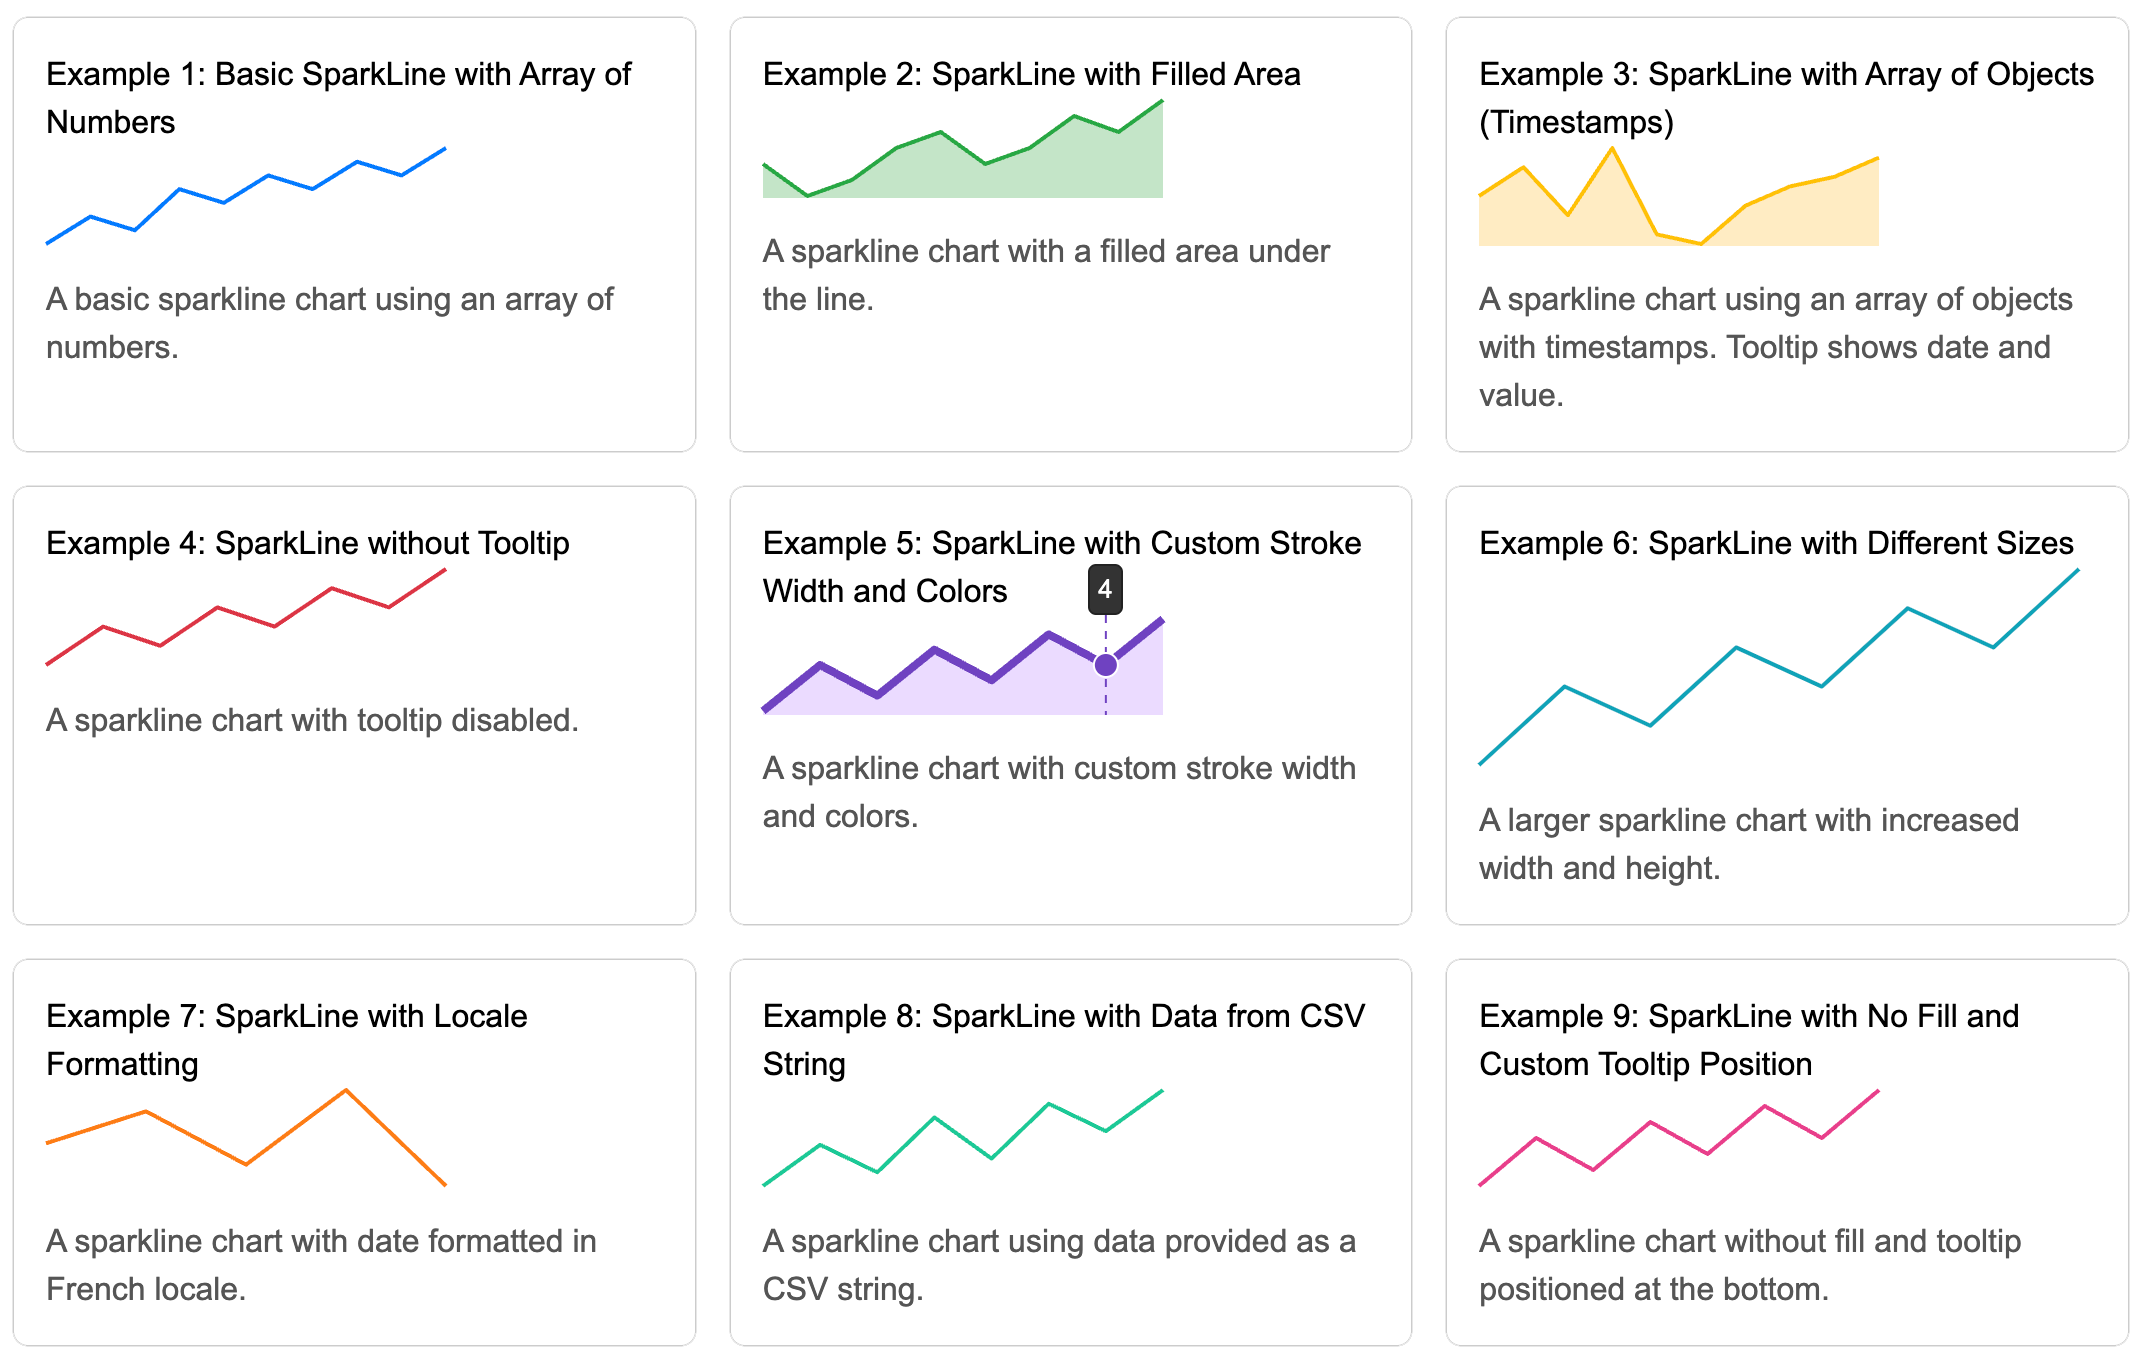
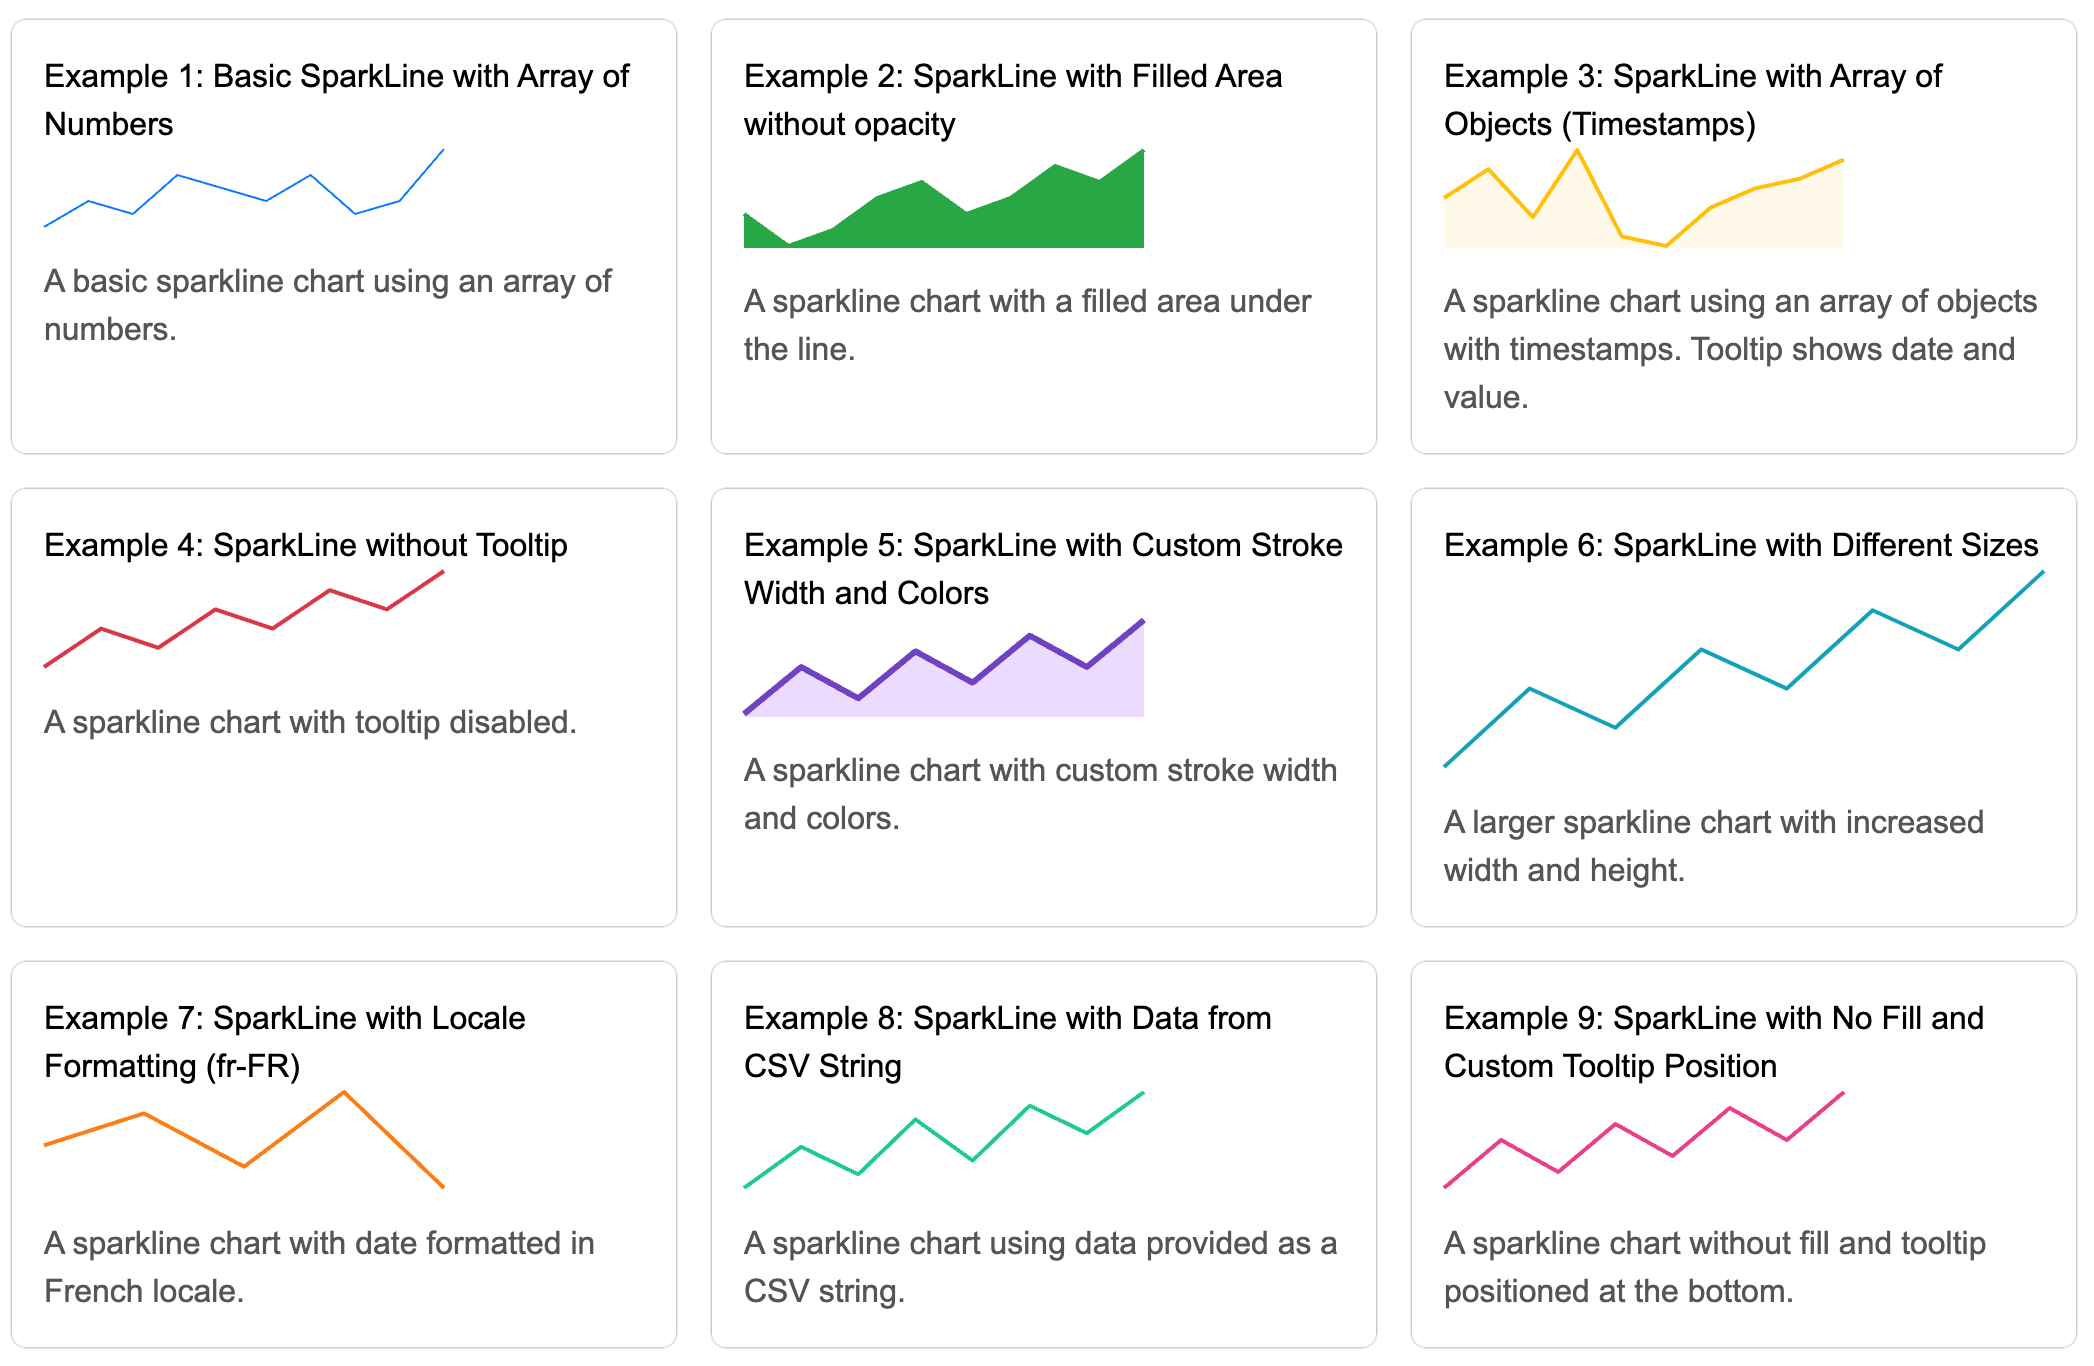
0.3.1

diff --git a/src/index.ts b/src/index.ts
@@ -140,7 +140,11 @@ class SimpleSparkLineChart {
     );
 
     if (filled) {
-      const fillPathD = `${linePoints.map((p, i) => (i === 0 ? "M" + p : "L" + p)).join(" ")} L${adjustedWidth.toFixed(2)},${adjustedHeight.toFixed(2)} L0,${adjustedHeight.toFixed(2)} Z`;
+      const fillPathD = `${linePoints
+        .map((p, i) => (i === 0 ? "M" + p : "L" + p))
+        .join(" ")} L${adjustedWidth.toFixed(2)},${adjustedHeight.toFixed(
+        2,
+      )} L0,${adjustedHeight.toFixed(2)} Z`;
 
       const fillElm = document.createElementNS(svgNS, "path");
       fillElm.setAttribute("d", fillPathD);
@@ -252,7 +256,13 @@ class SimpleSparkLineChart {
 
         tooltip.style.display = "block";
         const tooltipRect = tooltip.getBoundingClientRect();
-        tooltip.style.left = `${Math.max(0, Math.min(adjustedWidth - tooltipRect.width, cx - tooltipRect.width / 2))}px`;
+        tooltip.style.left = `${Math.max(
+          0,
+          Math.min(
+            adjustedWidth - tooltipRect.width,
+            cx - tooltipRect.width / 2,
+          ),
+        )}px`;
       };
 
       const handleOut = () => {

diff --git a/README.md b/README.md
@@ -61,9 +61,8 @@ This will create a basic SparkLine chart using the specified data-values.
   data-width="300"
   data-height="60"
   data-color-stroke="#00f"
-  data-filled="true"
-  data-filled-opacity="0.3"
-  data-tooltip="true"
+  data-filled="0.3"
+  data-tooltip="top"
   data-aria-label="My SparkLine Chart"
 ></div>
 
@@ -114,7 +113,7 @@ You can pass an array of objects with timestamps and values:
         {"timestamp":1693526400000,"value":0.93},
         {"timestamp":1693612800000,"value":0.9315}
     ]'
-  data-tooltip="true"
+  data-tooltip="top"
 ></div>
 
 <script>
